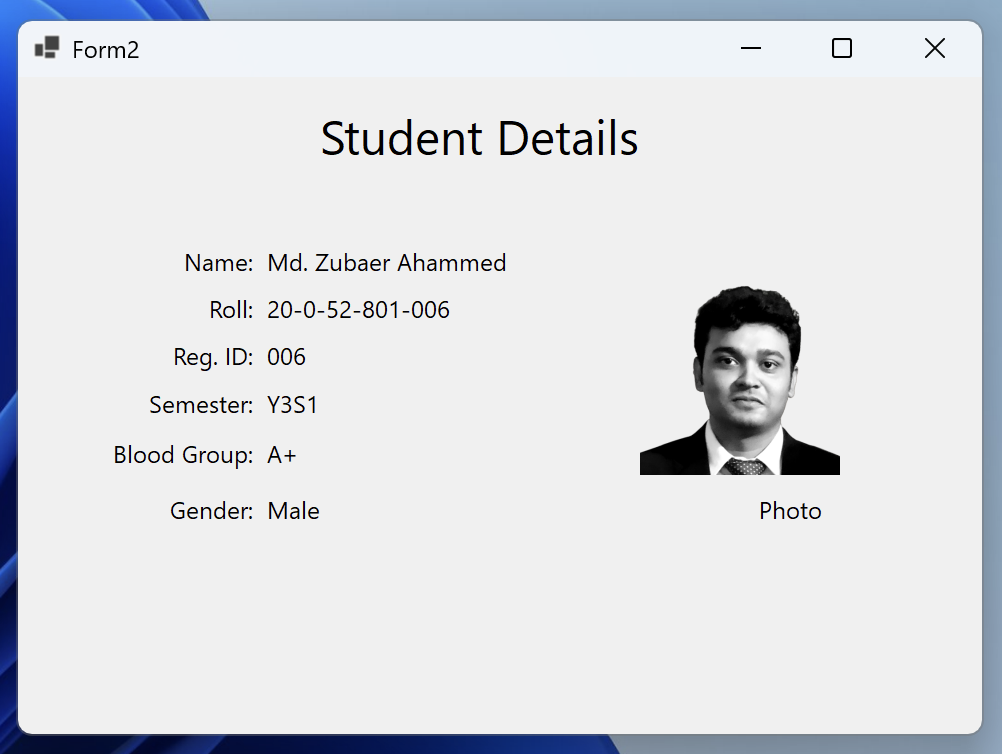
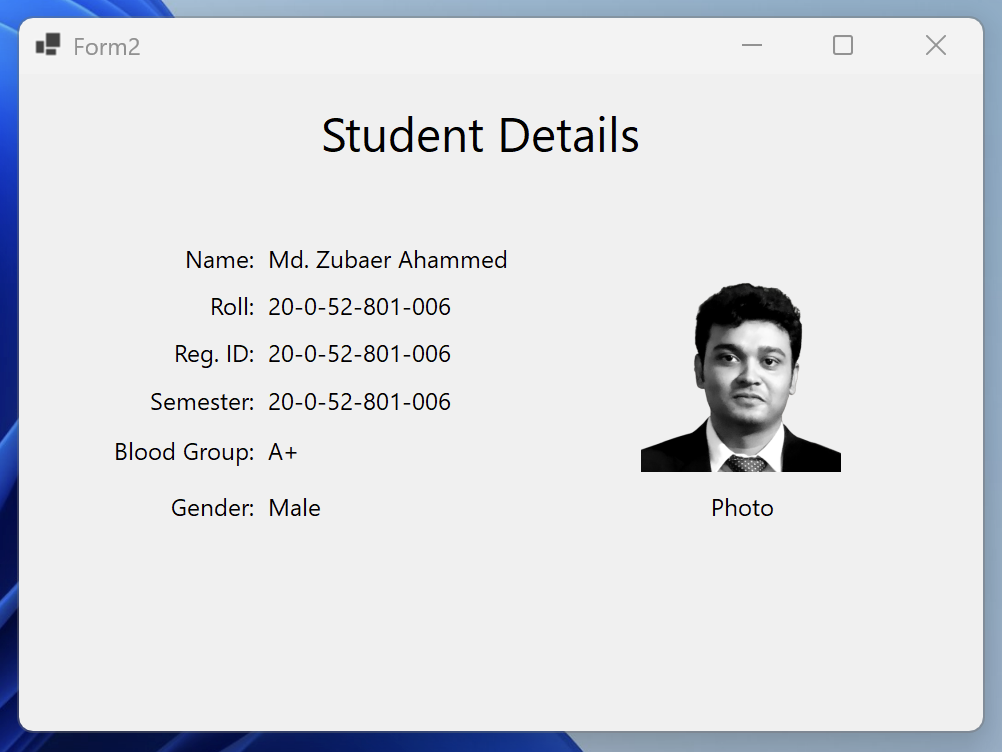
Updated Student Details Form Design

diff --git a/RegistrationForm/Form2.Designer.cs b/RegistrationForm/Form2.Designer.cs
@@ -117,7 +117,7 @@
             // label7
             // 
             label7.AutoSize = true;
-            label7.Location = new Point(735, 416);
+            label7.Location = new Point(686, 416);
             label7.Name = "label7";
             label7.Size = new Size(77, 32);
             label7.TabIndex = 9;
